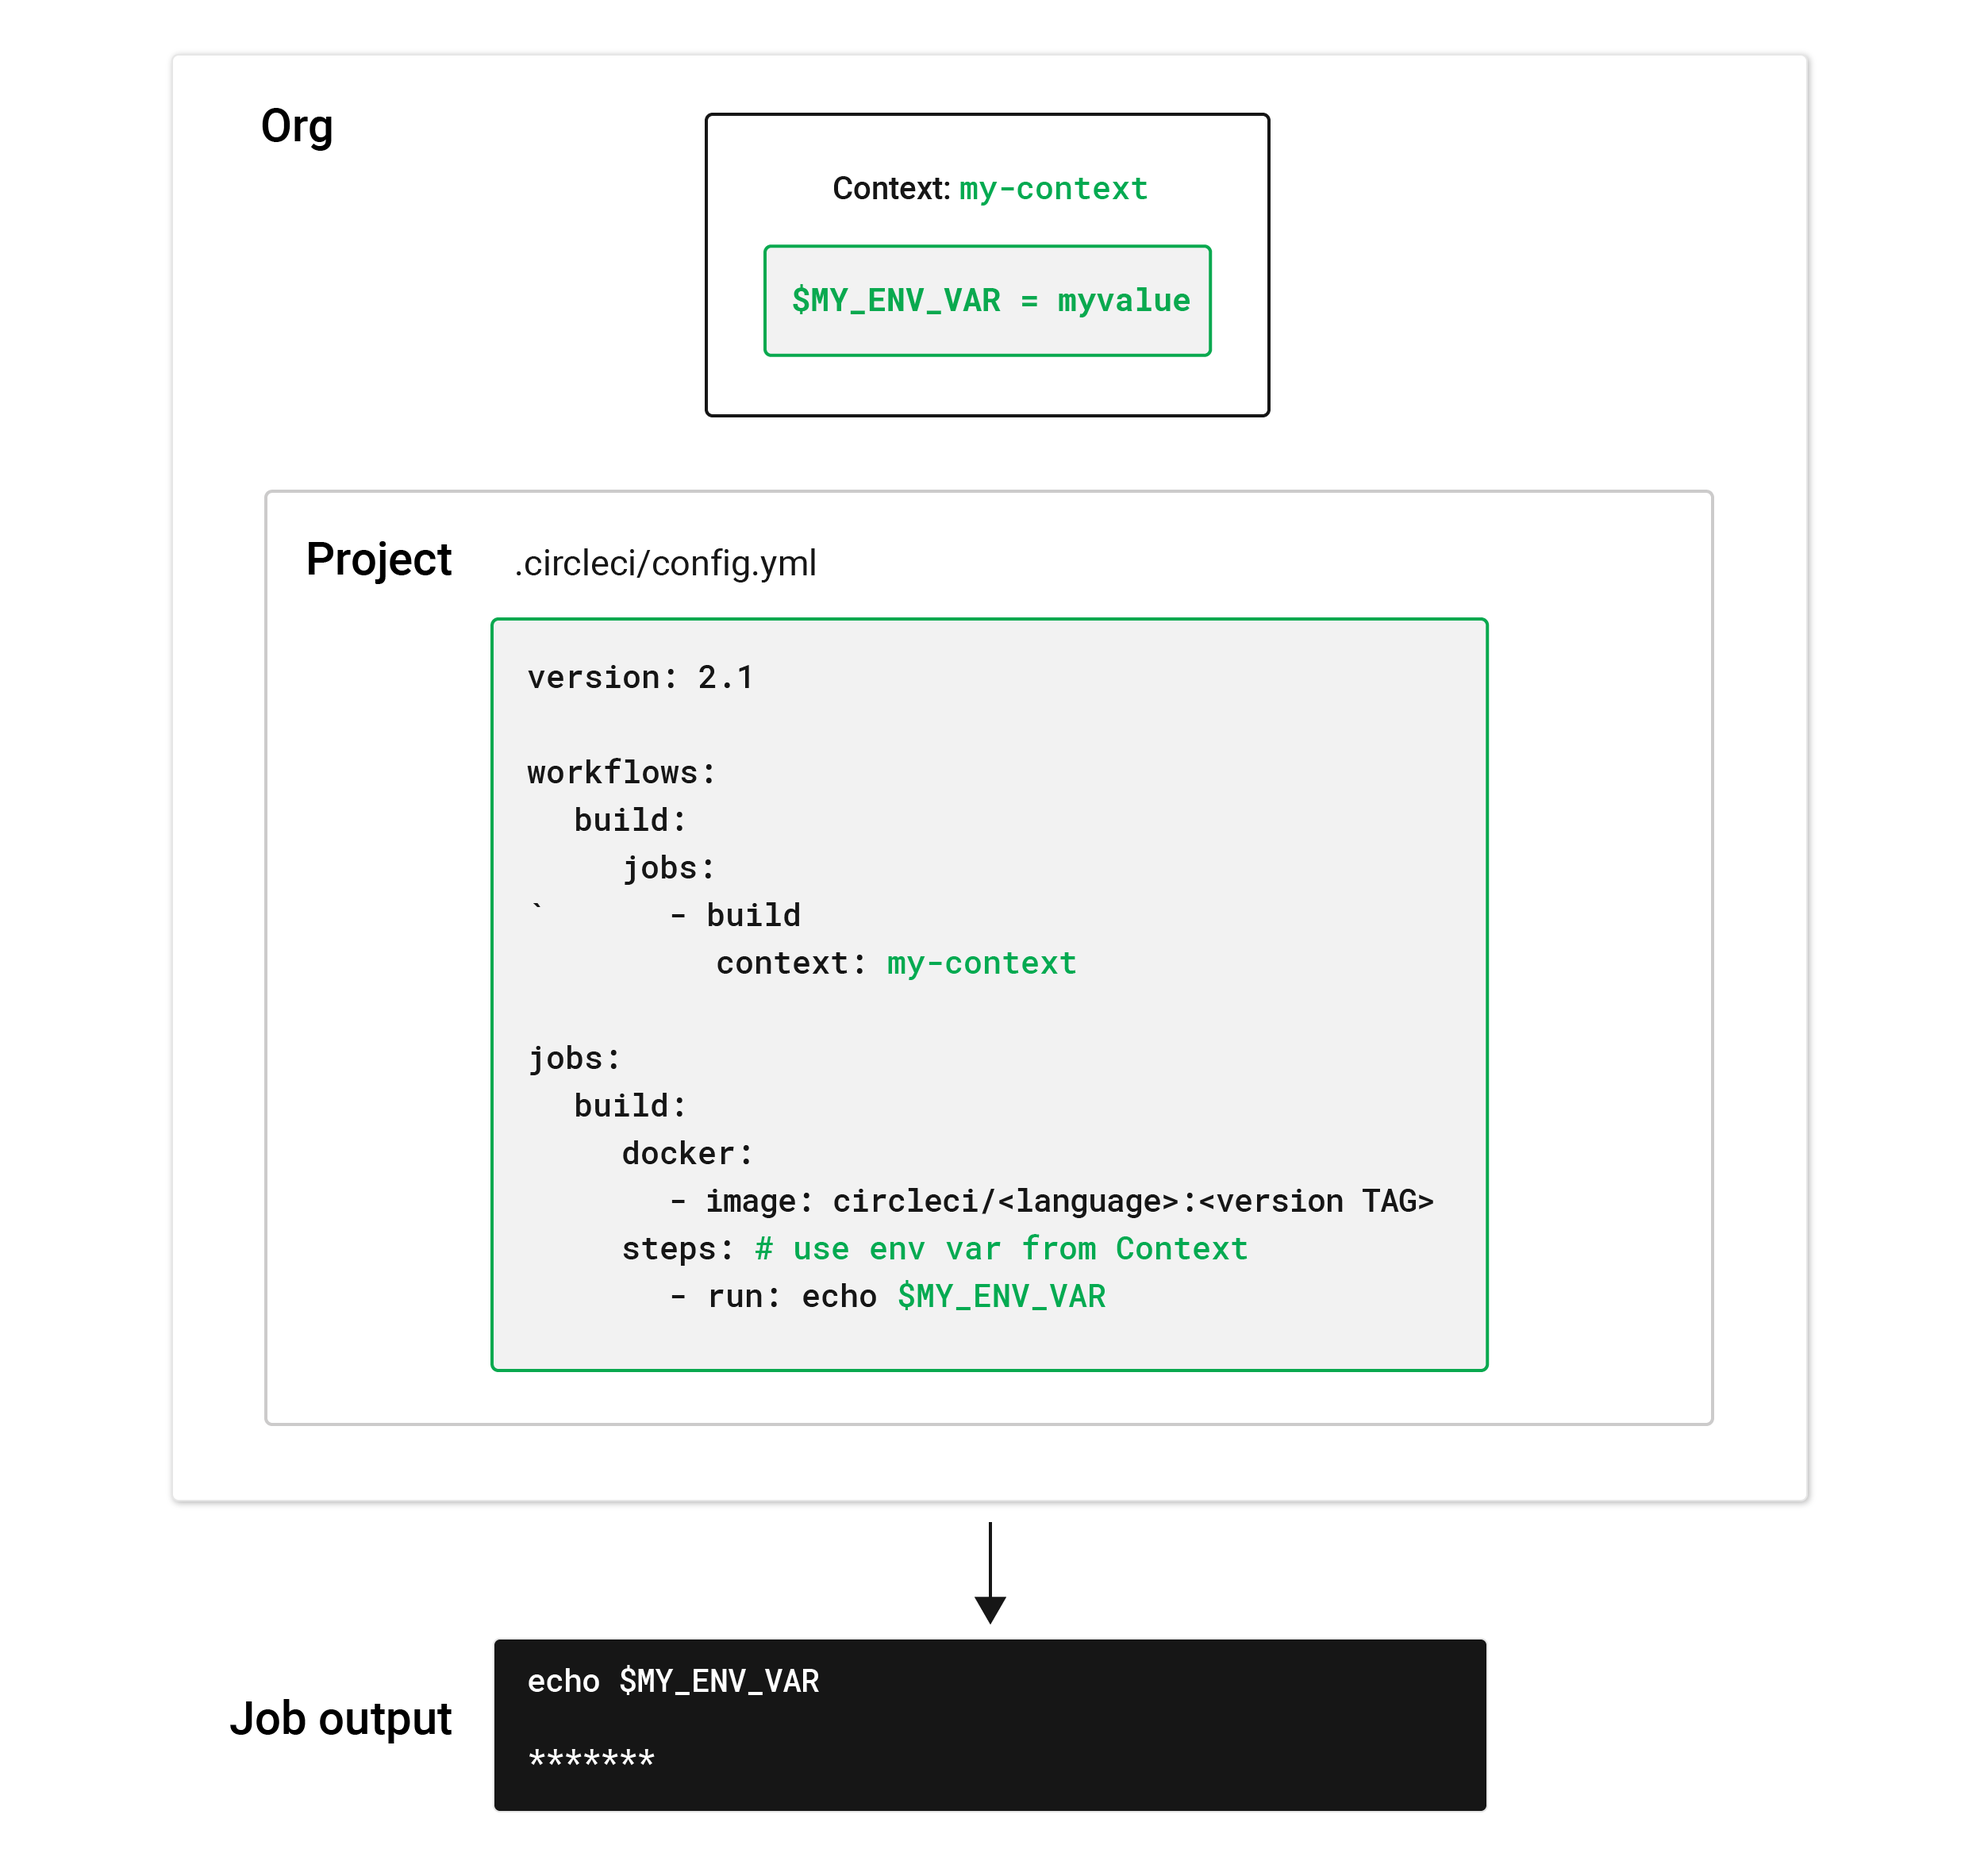
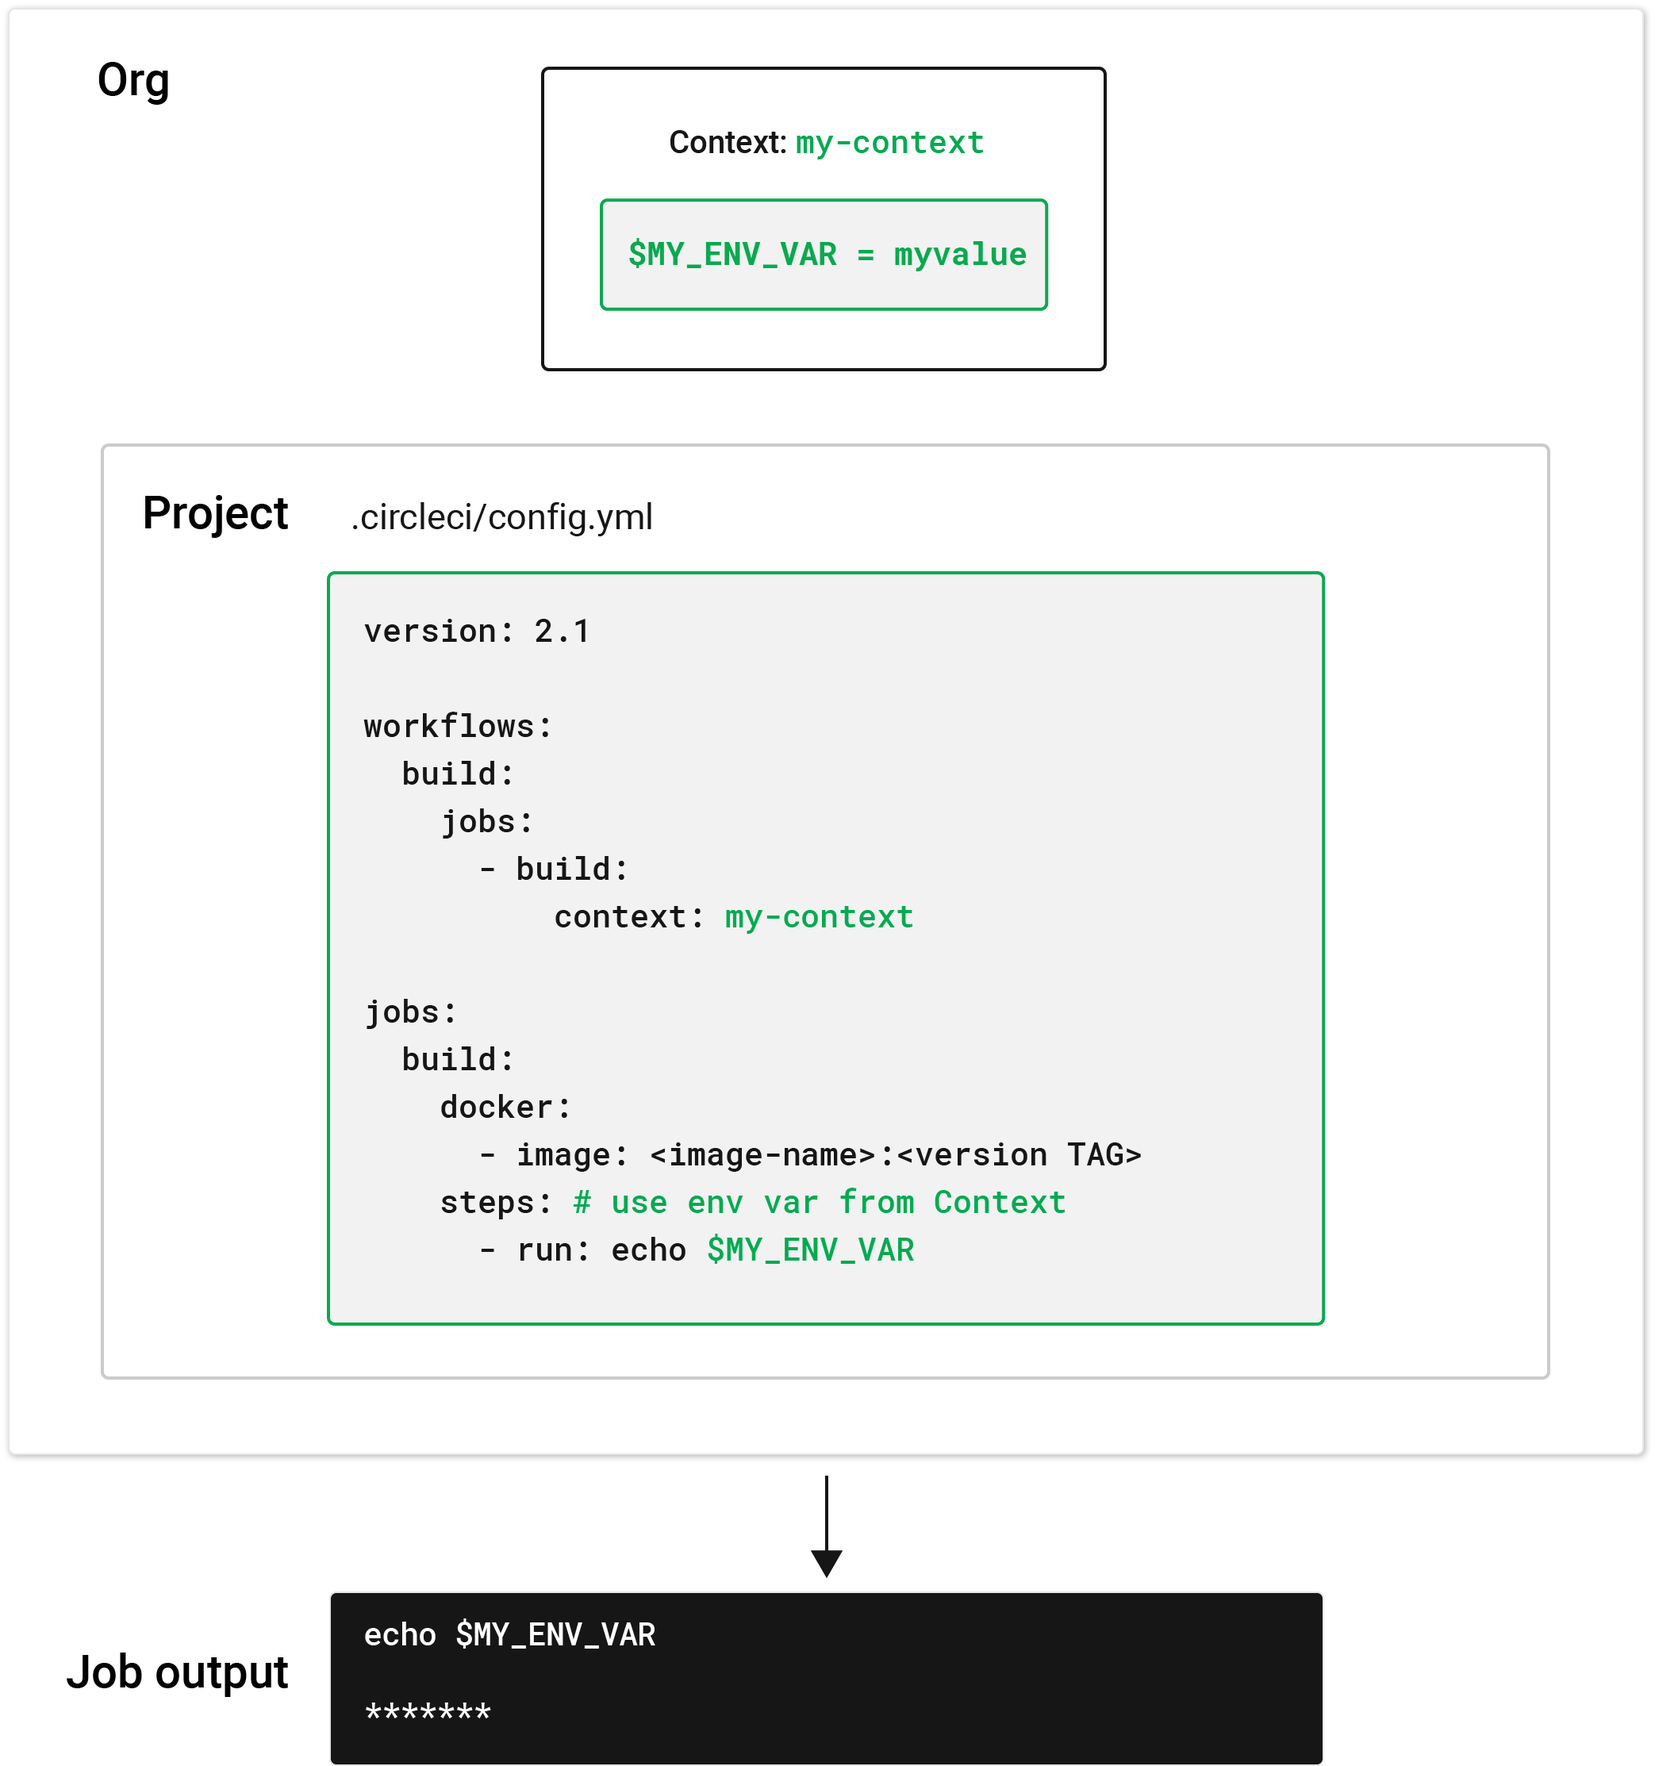
fix image and missing jobs tag

diff --git a/jekyll/_cci2/contexts.md b/jekyll/_cci2/contexts.md
@@ -120,7 +120,8 @@ version: 2.1
 # jobs declaration for build, test and deploy not displayed
 
 workflows:
-  build-test-deploy:
+  jobs:
+    build-test-deploy:
       - build
       - hold:
           type: approval # presents manual approval button in the UI
